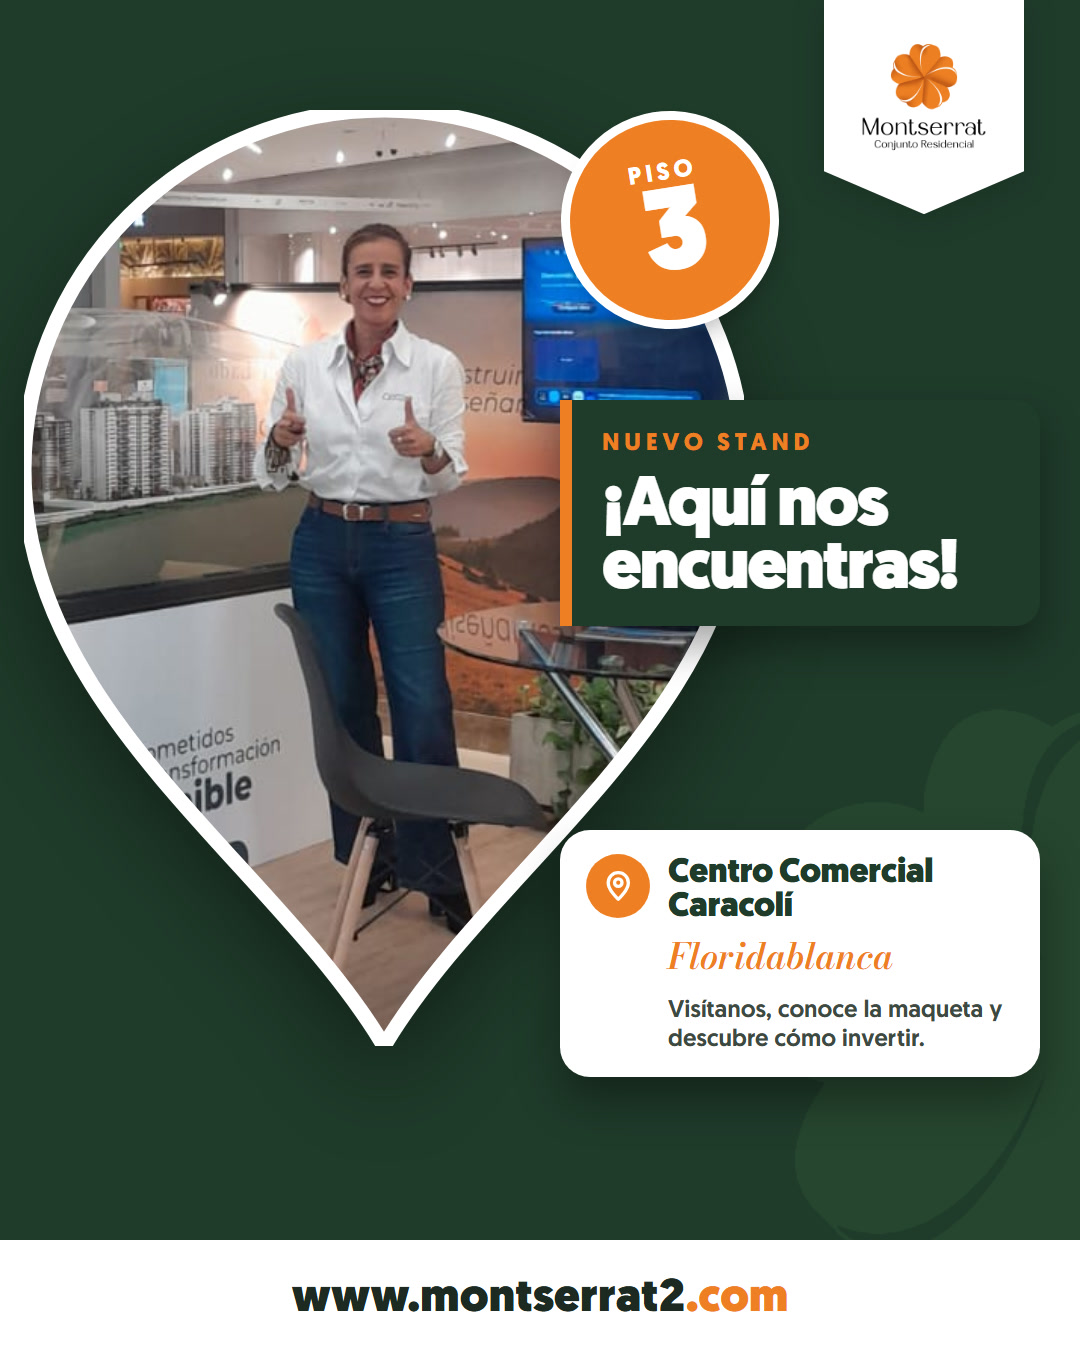
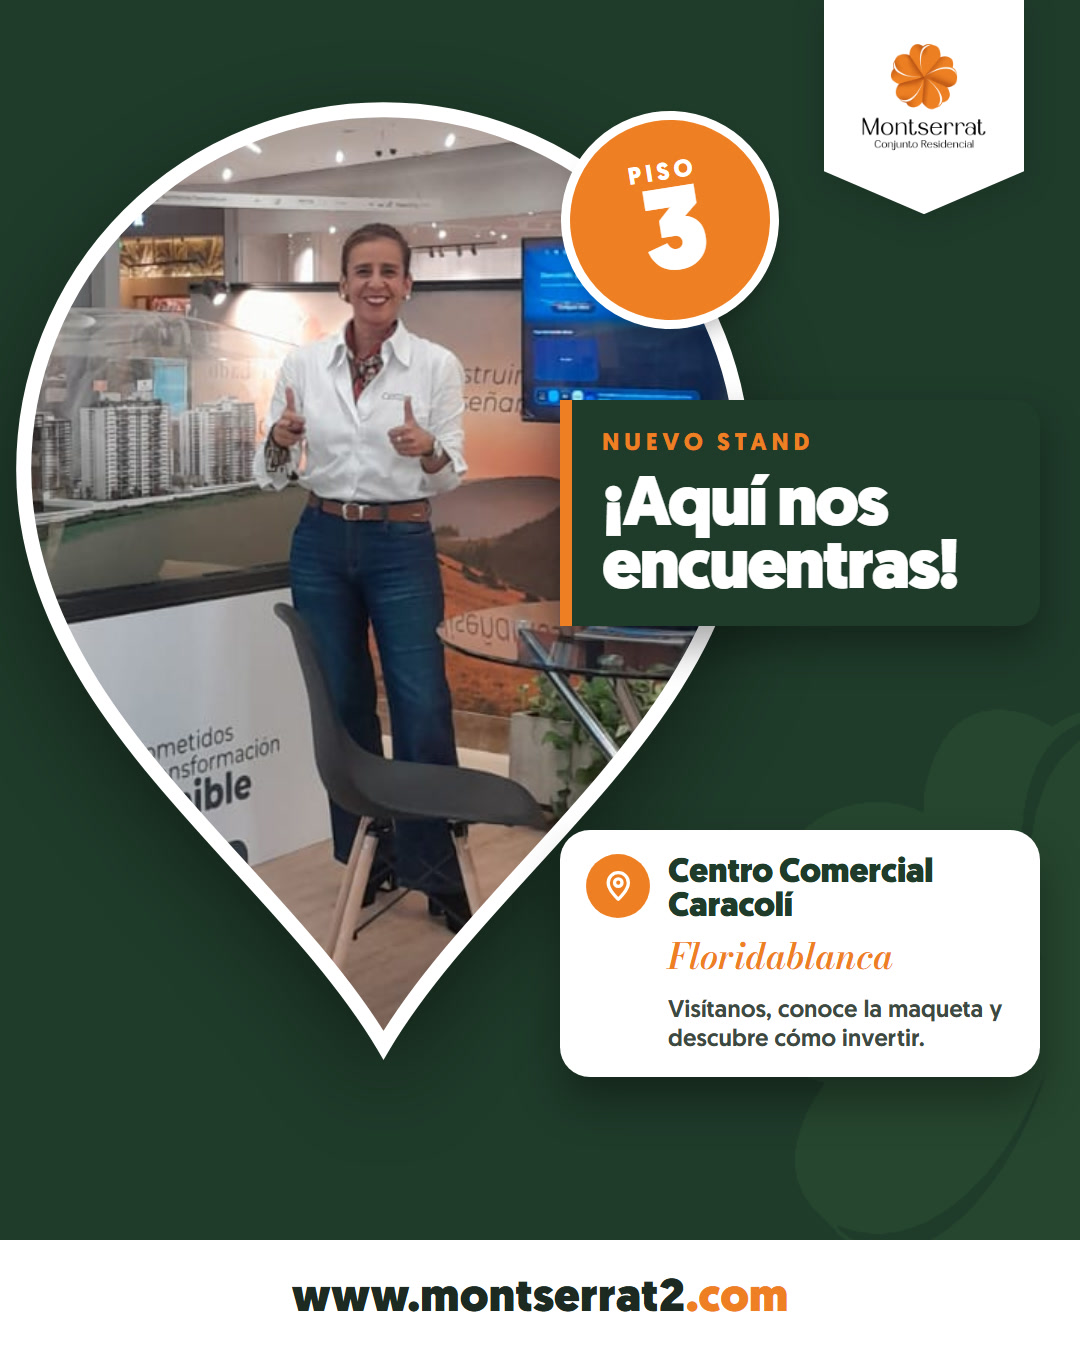
Montserrat stand B: borde del pin completo

Changed region(s): [[0.3056, 0.0622, 0.3972, 0.0933], [0.0, 0.3111, 0.0306, 0.4044]]

diff --git a/montserrathorariostand/index.html b/montserrathorariostand/index.html
@@ -62,7 +62,7 @@ td.no{color:var(--muted)}
 <footer>Montserrat Etapa II · Azulado Inmobiliario</footer>
 <div class="lb" id="lb" hidden role="dialog" aria-modal="true"><div class="bar"><div class="t" id="lt"></div><button id="lx" type="button">Cerrar ✕</button></div><div class="st" id="ls"><img id="li" alt=""></div></div>
 <script>
-var V='?v=3';
+var V='?v=4';
 var S=[
  {t:'Letrero de horario',m:'Entrada de la sala de ventas · 60 × 80 cm (medida por confirmar) · lunes a sábado 9:00 a. m. a 6:00 p. m., domingos y festivos 10:00 a. m. a 5:00 p. m.',c:'tall',f:['horario_b','horario_0.6x0.8'],n:['Propuesta B · Puertas abiertas','Propuesta A · Clásica'],q:['nueva','']},
  {t:'Stand Centro Comercial Caracolí',m:'Piso 3 · foto real del stand · historia de Instagram 1080 × 1920 y post 1080 × 1350',c:'tall',f:['stand_b_historia','stand_b_post','stand_historia','stand_post'],n:['Propuesta B · Historia','Propuesta B · Post','Propuesta A · Historia','Propuesta A · Post'],q:['nueva','nueva','','']}
